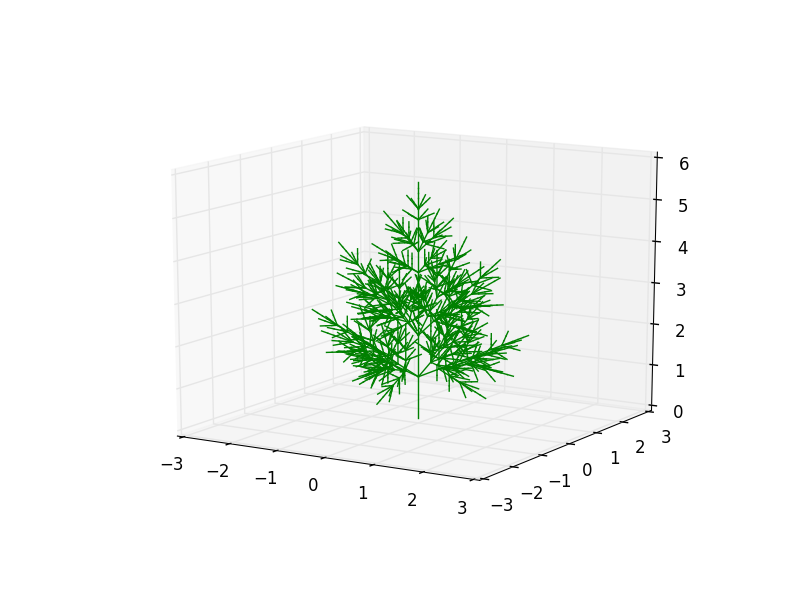
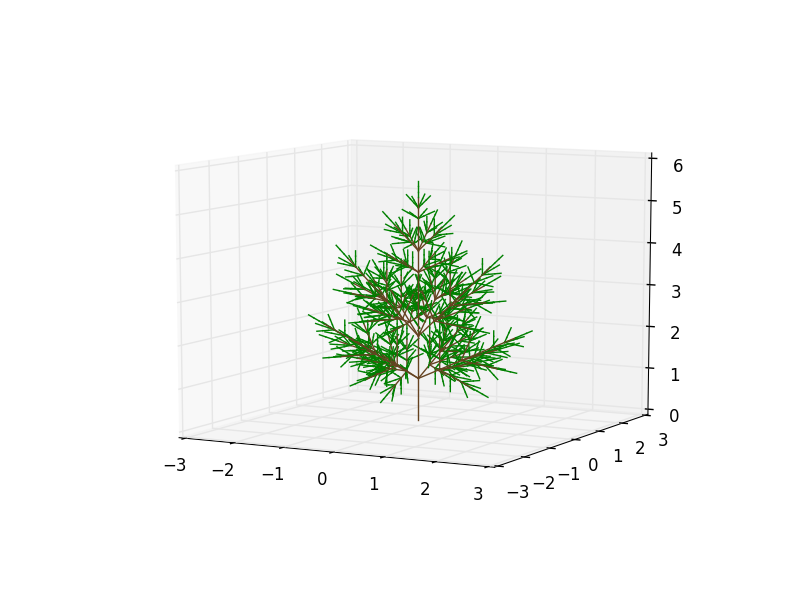
Improve color system

diff --git a/examples.py b/examples.py
@@ -18,36 +18,36 @@ def koch():
 	plot2d(system.state, 90)
 
 def tree():
-	system = LSystem('B', {'B': 'F/[+B]-B*'})
+	system = LSystem('B', {'B': 'gF/[+B]-B*', 'g': 'b'})
 	for _ in range(7):
 		system.step()
-	plot2d(system.state, 20, 2, np.array([0, 1.]), 'g')
+	plot2d(system.state, 20, 1.2, np.array([0, 1.]), {'g': 'g', 'b': '#654321'})
 
 def plant():
-	system = LSystem('X', {'X': 'F+[[X]-X]-F[-FX]+X', 'F': 'FF'})
+	system = LSystem('gX', {'X': 'F+[[X]-X]-F[-FX]+X', 'F': 'FF'})
 	for _ in range(5):
 		system.step()
-	plot2d(system.state, 25, 1, rotate(np.array([1., 0]), 50), 'g')
+	plot2d(system.state, 25, 1, rotate(np.array([1., 0]), 50), {'g': 'g'})
 
 def liana():
-	system = LSystem('F', {'F': 'F[+F]F[-F]F'})
+	system = LSystem('gF', {'F': 'F[+F]F[-F]F'})
 	for _ in range(5):
 		system.step()
-	plot2d(system.state, 25, 1, np.array([0, 1.]), 'g')
+	plot2d(system.state, 25, 1, np.array([0, 1.]), {'g': 'g'})
 
 # 3D plots
 
 def tree3d():
-	system = LSystem('B', {'B': 'F/[+B][-B][&B]^B*'})
+	system = LSystem('B', {'B': 'gF/[+B][-B][&B]^B*', 'g': 'b'})
 	for _ in range(6):
 		system.step()
-	plot3d(system.state, 20, 1.2, np.array([0, 0, 1.]), 'g')
+	plot3d(system.state, 20, 1.2, np.array([0, 0, 1.]), {'g': 'g', 'b': '#654321'})
 
 def pine3d():
-	system = LSystem('B', {'B': 'F/[+++B][---B][&&&B][^^^B]*F/[++B][--B][&&B][^^B]*F/B*'})
+	system = LSystem('B', {'B': 'gF/[+++B][---B][&&&B][^^^B]*gF/[++B][--B][&&B][^^B]*gF/B*', 'g': 'b'})
 	for _ in range(4):
 		system.step()
-	plot3d(system.state, 20, 2, np.array([0, 0, 1.]), 'g')
+	plot3d(system.state, 20, 2, np.array([0, 0, 1.]), {'g': 'g', 'b': '#654321'})
 
 if __name__ == '__main__':
 	pine3d()

diff --git a/plot.py b/plot.py
@@ -5,10 +5,11 @@ from util import *
 
 # 2D
 
-def plot2d(string, alpha, delta=1, init_direction=np.array([1., 0]), color='k'):
+def plot2d(string, alpha, delta=1, init_direction=np.array([1., 0]), colors={}):
 	plt.gca().set_aspect('equal', adjustable='box')
 	pos = np.zeros(2, dtype=np.float64)
 	direction = init_direction
+	color = 'k'
 	saved_states = []
 	for x in string:
 		if x == 'F':
@@ -29,6 +30,8 @@ def plot2d(string, alpha, delta=1, init_direction=np.array([1., 0]), color='k'):
 			saved_states.append((pos, direction))
 		elif x == ']':
 			pos, direction = saved_states.pop()
+		elif x in colors:
+			color = colors[x]
 	plt.show()
 
 # 3D
@@ -42,11 +45,12 @@ def axis_equal_3d(ax):
     for ctr, dim in zip(centers, 'xyz'):
         getattr(ax, 'set_{}lim'.format(dim))(ctr - r, ctr + r)
 
-def plot3d(string, alpha, delta=1, init_direction=np.array([1., 0, 0]), color='k'):
+def plot3d(string, alpha, delta=1, init_direction=np.array([1., 0, 0]), colors={}):
 	fig = plt.figure()
 	ax = fig.add_subplot(111, projection='3d')
 	pos = np.zeros(3, dtype=np.float64)
 	direction = init_direction
+	color = 'k'
 	saved_states = []
 	for x in string:
 		if x == 'F':
@@ -77,5 +81,7 @@ def plot3d(string, alpha, delta=1, init_direction=np.array([1., 0, 0]), color='k
 			saved_states.append((pos, direction))
 		elif x == ']':
 			pos, direction = saved_states.pop()
+		elif x in colors:
+			color = colors[x]
 	axis_equal_3d(ax)
 	plt.show()
